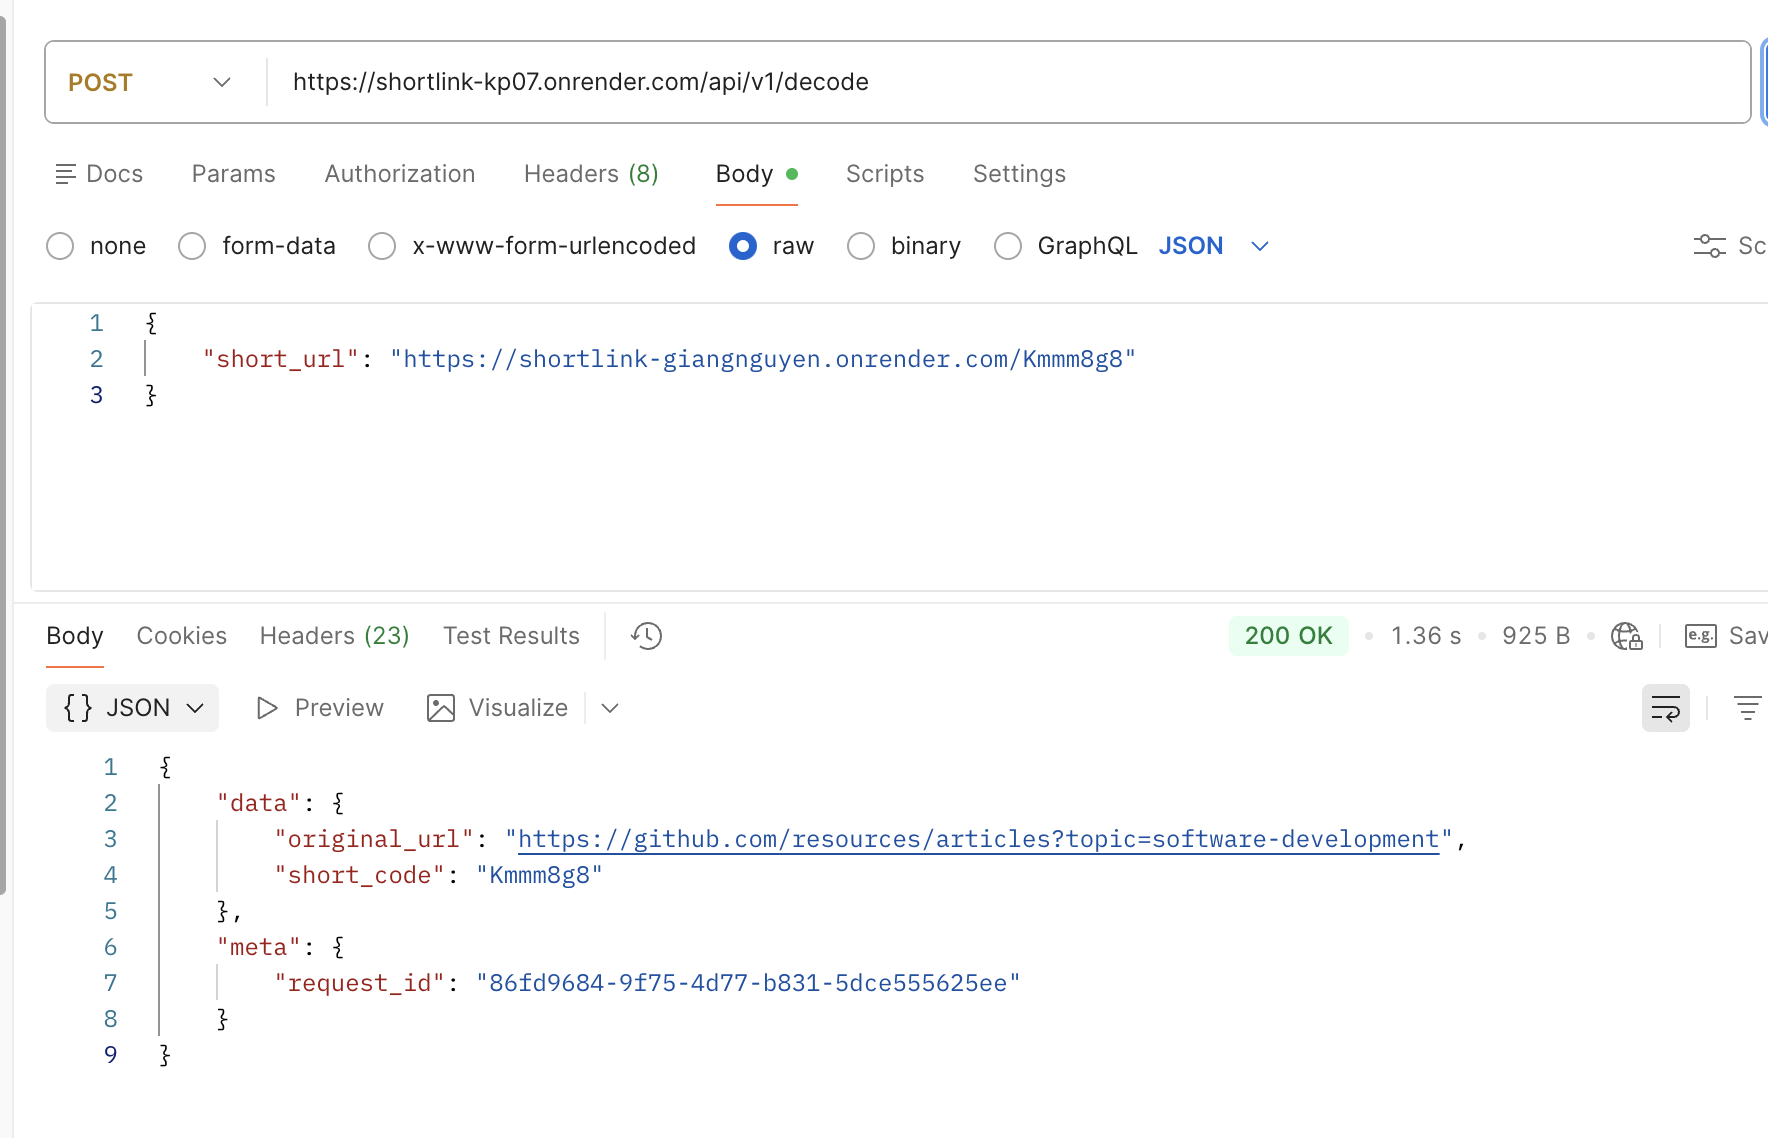
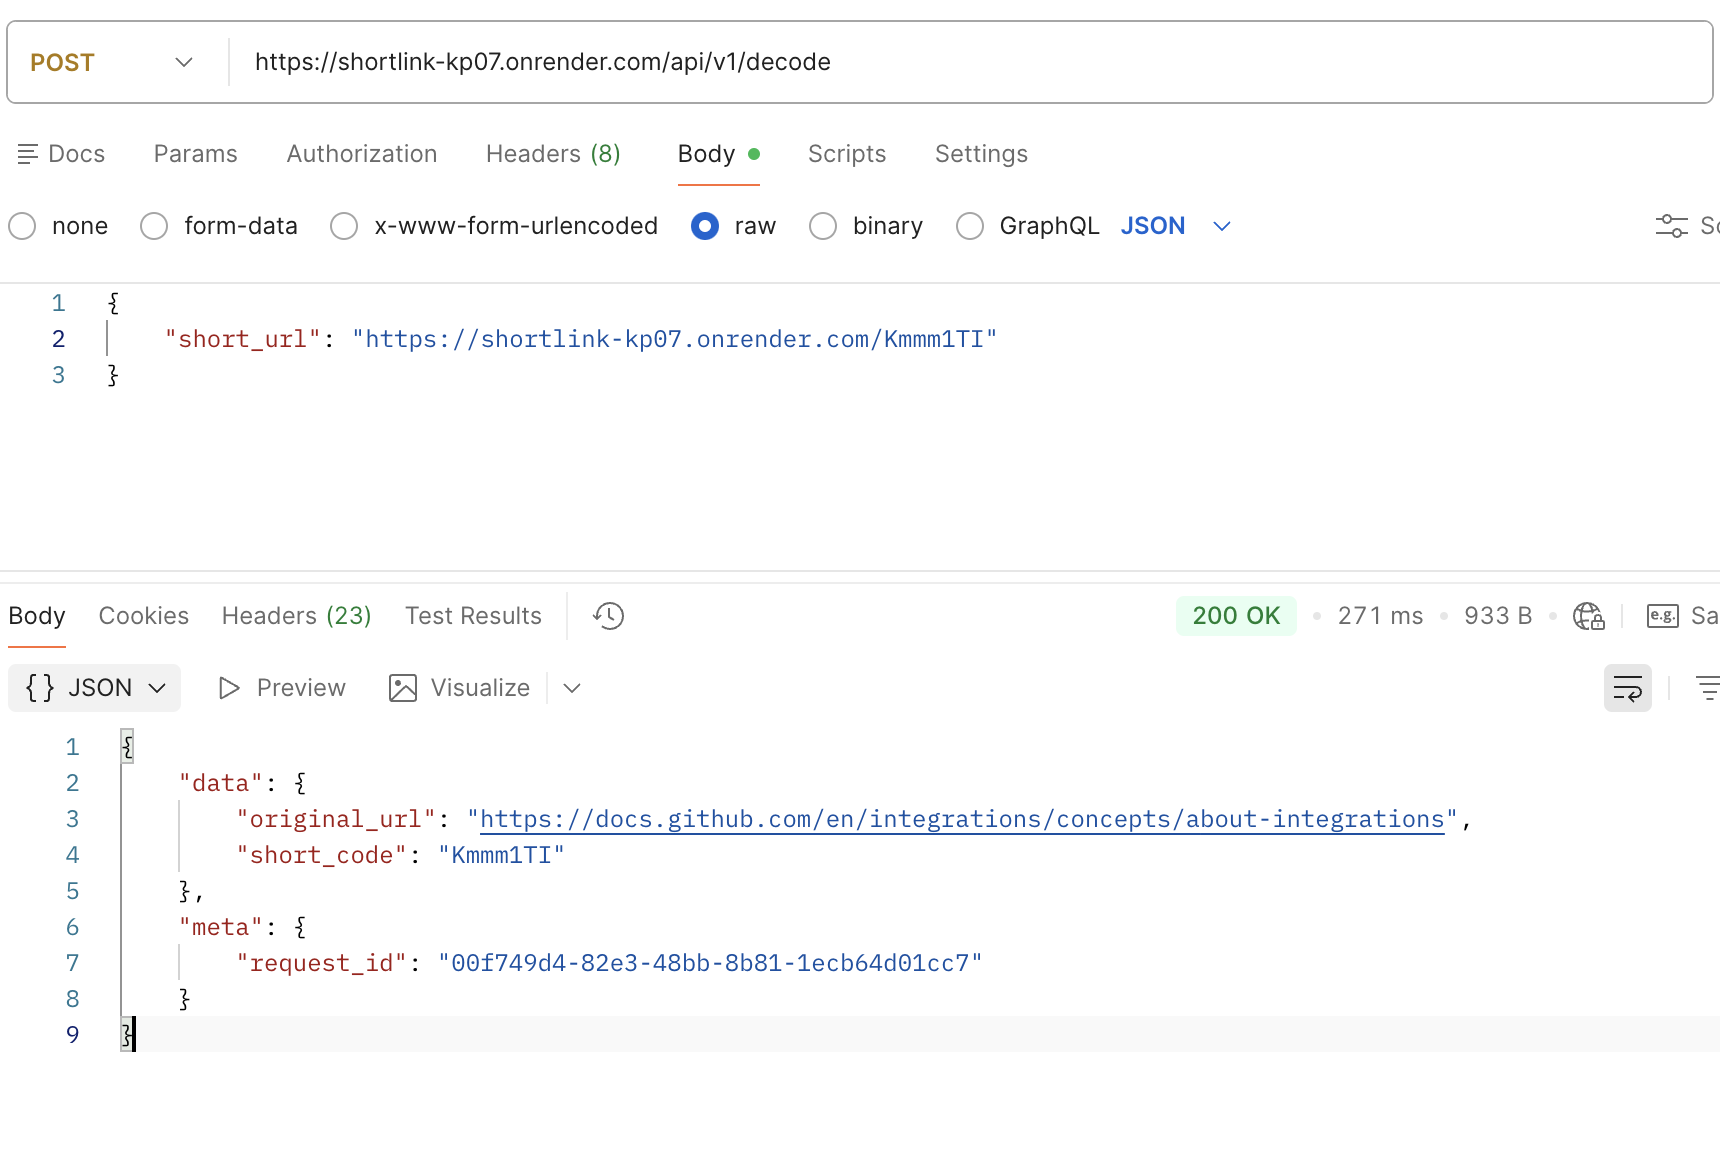
update demo link and images

diff --git a/README.md b/README.md
@@ -54,14 +54,14 @@ You can test the Encode endpoint directly from your terminal
 ```bash
 curl -X POST https://shortlink-kp07.onrender.com/api/v1/encode \
   -H "Content-Type: application/json" \
-  -d '{"url": "https://github.com/resources/articles?topic=software-development"}'
+  -d '{"url": "https://docs.github.com/en/integrations/concepts/about-integrations"}'
 ```
 
 2.1 Decode a short URL
 ```bash
 curl -X POST https://shortlink-kp07.onrender.com/api/v1/decode \
   -H "Content-Type: application/json" \
-  -d '{"short_url": "https://shortlink-giangnguyen.onrender.com/Kmmm8g8"}'
+  -d '{"short_url": "https://shortlink-kp07.onrender.com/Kmmm1TI"}'
 ```
 
 ### Successful Response Example
@@ -97,8 +97,7 @@ curl -X POST http://localhost:3000/api/v1/encode \
   "data": {
     "short_url": "http://localhost:3000/Kmmm1ZE",
     "short_code": "Kmmm1ZE",
-    "original_url": "https://github.com/resources/articles?topic=software-development",
-    "created_at": "2026-03-20T03:47:53Z"
+    "original_url": "https://github.com/resources/articles?topic=software-development"
   },
   "meta": { "request_id": "8eea66d8-7be9-41f6-832f-29ed5a586662" }
 }
